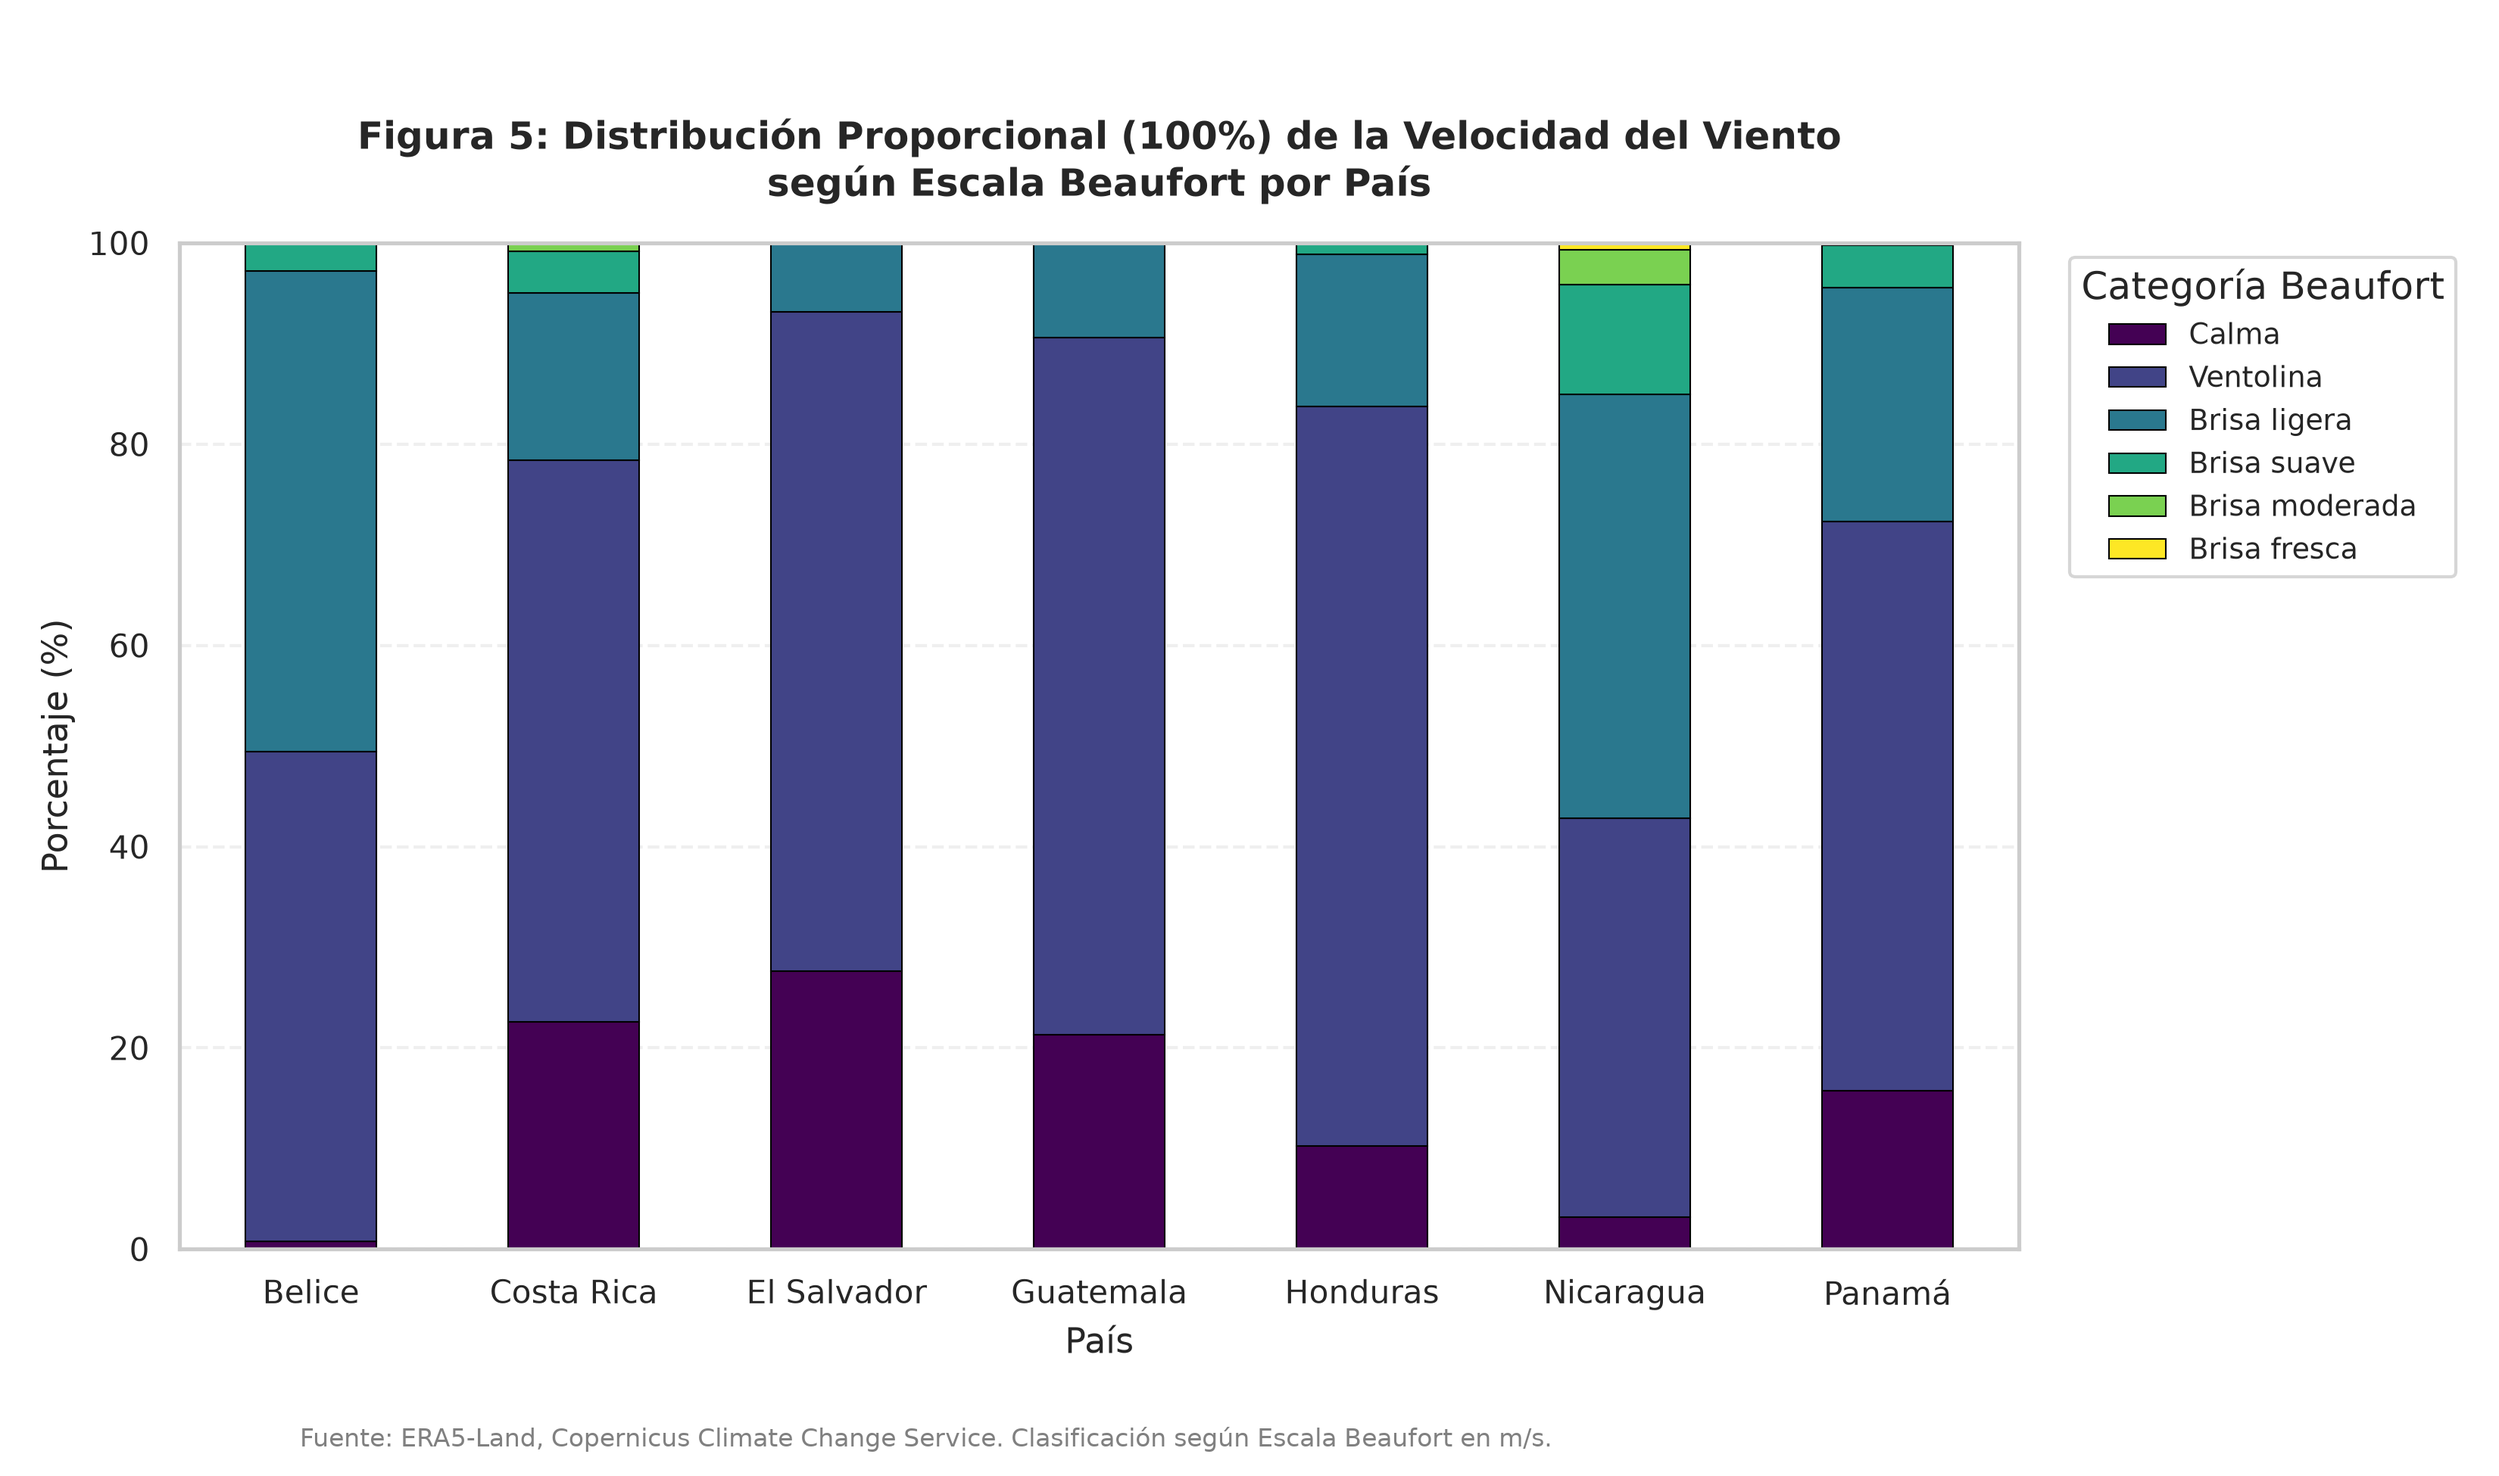
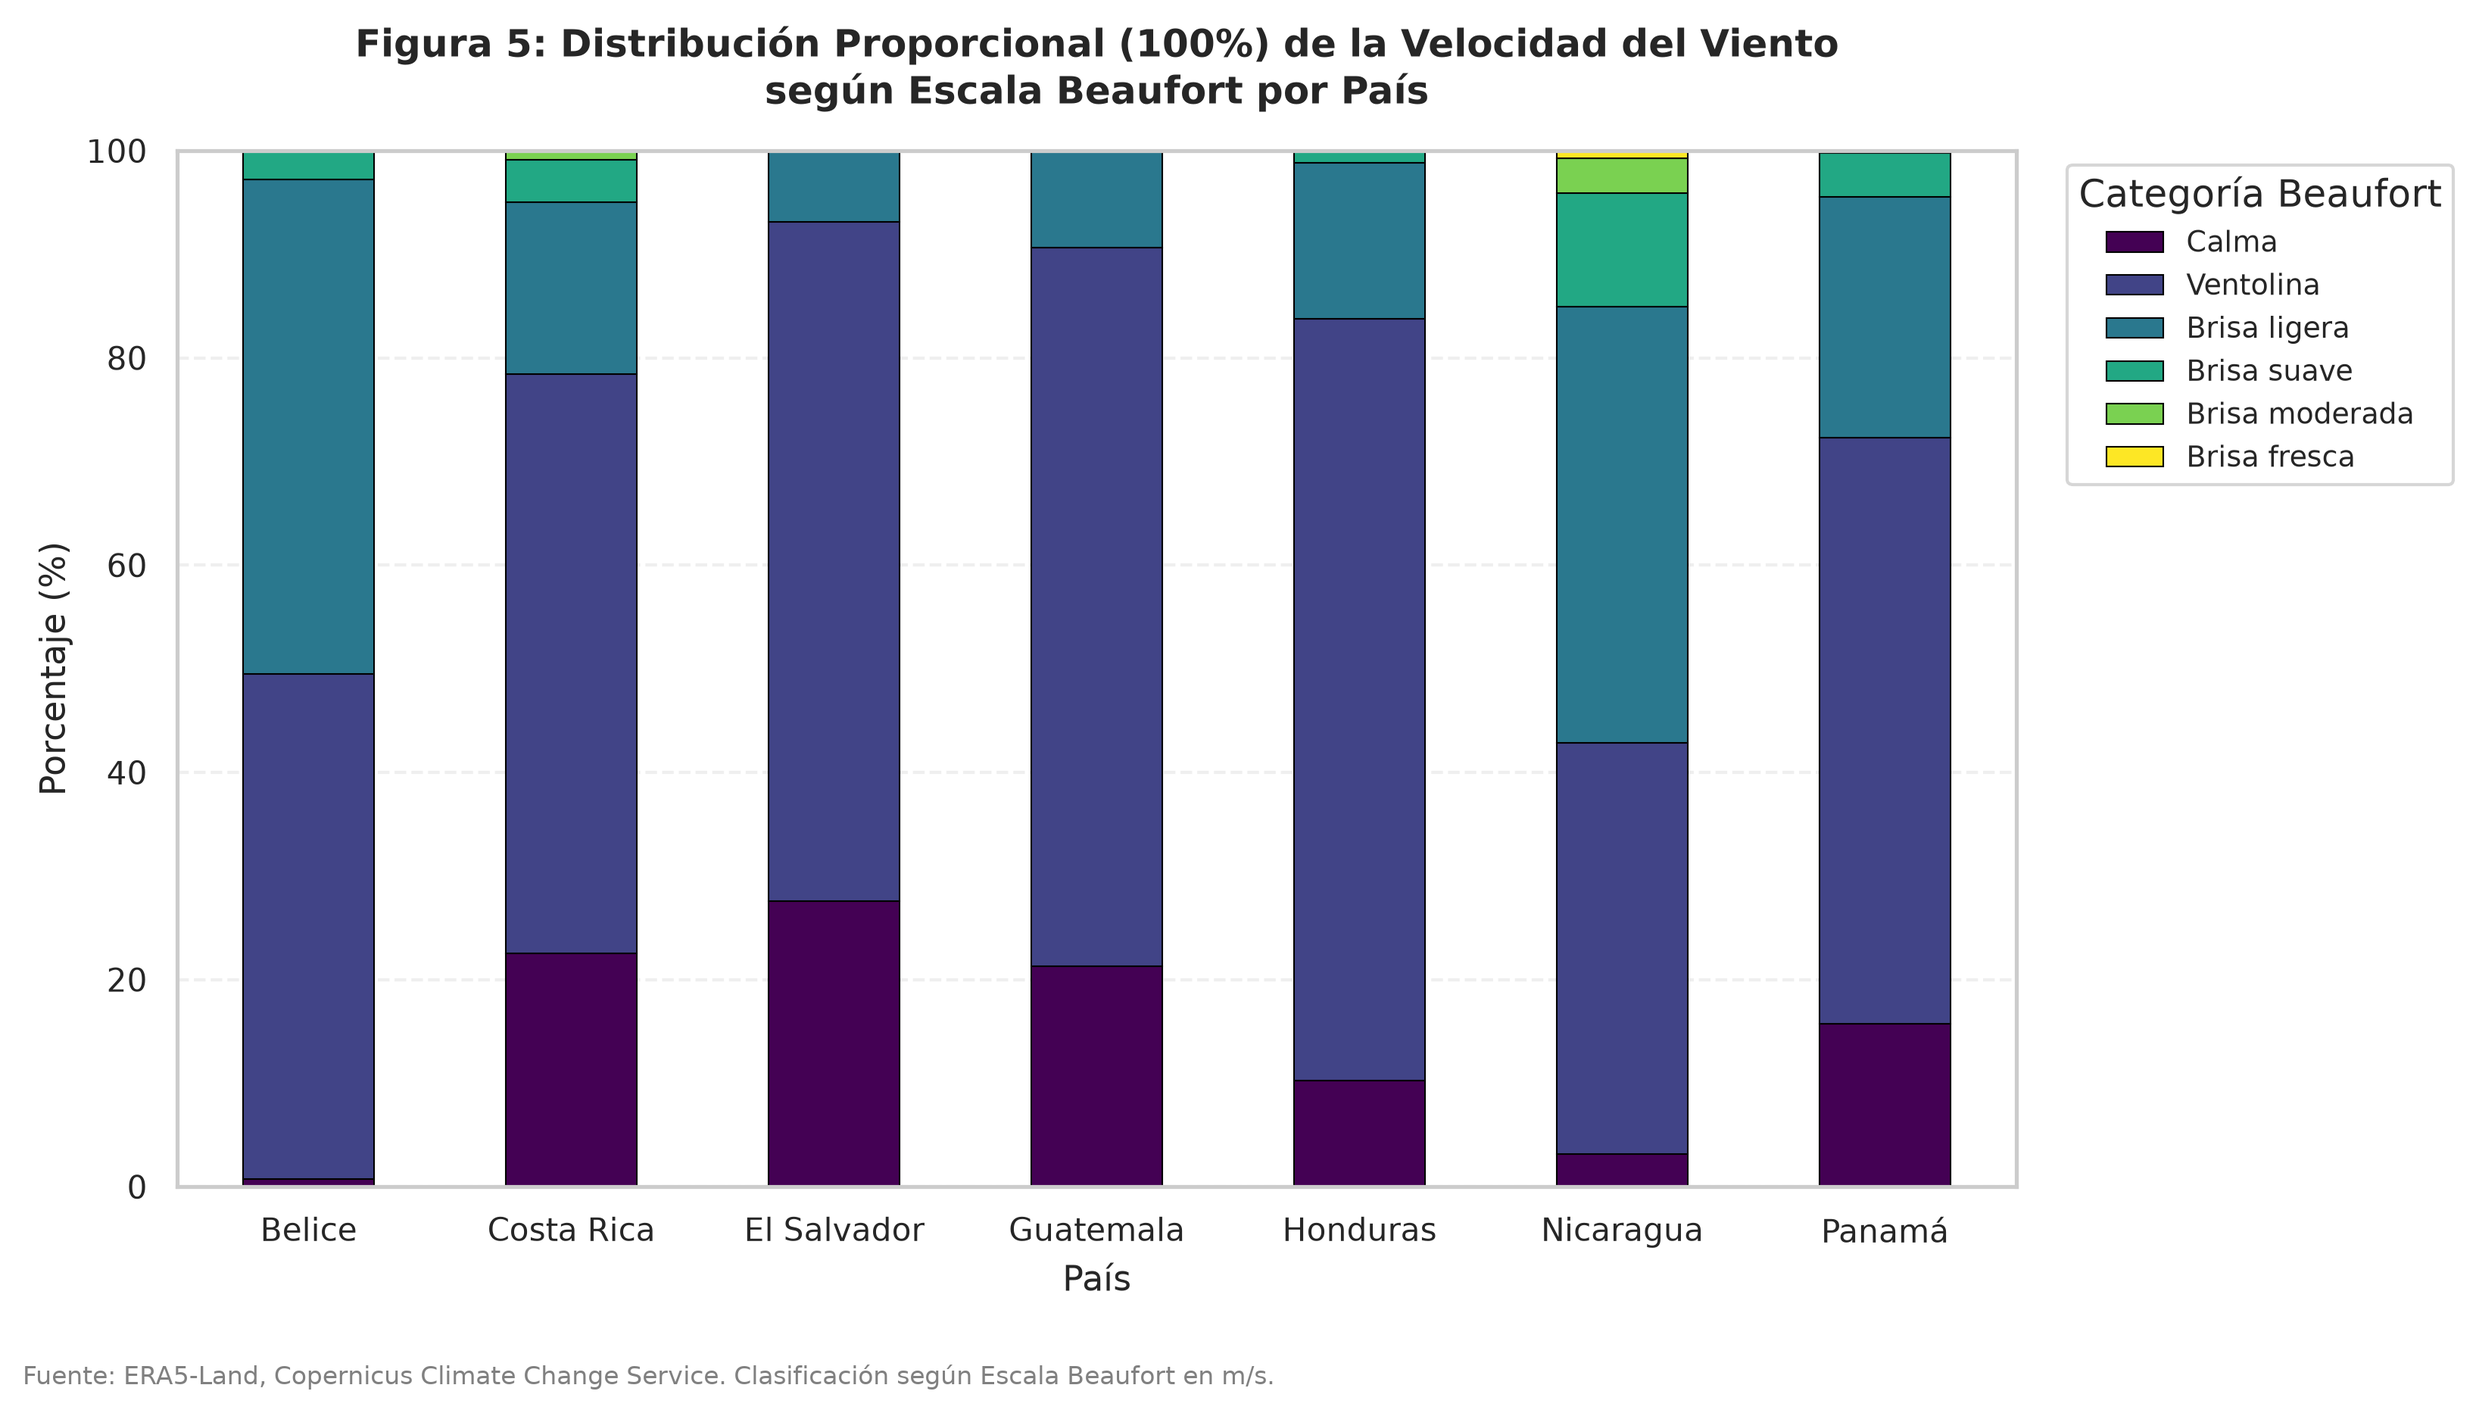
refactor: update climate script to plot scatter charts and refine figure layouts and export settings

diff --git a/scripts_clima/04_clasificacion_y_espacial.py b/scripts_clima/04_clasificacion_y_espacial.py
@@ -14,33 +14,35 @@ def main():
     # 1. Cargar dataset
     df = pd.read_csv(config.CLIMA_CSV_PATH)
     
-    # Diagrama de Dispersión Geográfico
+    # Diagrama de Dispersión Climatológico
     # Promediar 2020-2025 por punto geográfico (lat, lon, pais)
     df_coords = df.groupby(["pais", "latitude", "longitude"])[["temperatura_c", "precipitacion_mensual_mm"]].mean().reset_index()
     
-    fig, ax = plt.subplots(figsize=(10, 8))
+    fig, ax = plt.subplots(figsize=(10, 6))
     
-    for pais, color in config.PAIS_COLORS.items():
-        sub = df_coords[df_coords["pais"] == pais]
-        ax.scatter(
-            sub["longitude"],
-            sub["latitude"],
-            c=color,
-            label=pais,
-            alpha=0.6,
-            edgecolors="none",
-            s=25
-        )
-    ax.set_title("Figura 4: Distribución Geográfica de Puntos Observacionales\nde ERA5-Land por País", pad=15)
-    ax.set_xlabel("Longitud (°)")
-    ax.set_ylabel("Latitud (°)")
-    ax.legend(title="País", loc="lower left")
+    sns.scatterplot(
+        data=df_coords,
+        x="temperatura_c",
+        y="precipitacion_mensual_mm",
+        hue="pais",
+        palette=config.PAIS_COLORS,
+        alpha=0.5,
+        edgecolor="none",
+        s=30,
+        ax=ax
+    )
     
-    fig.text(0.12, 0.02, "Fuente: ERA5-Land, Copernicus Climate Change Service. Promedios 2020–2025 por coordenada.", fontsize=8, color="gray")
+    ax.set_title("Figura 4: Diagrama de Dispersión – Precipitación Promedio vs. Temperatura Promedio\n(Promedios 2020–2025 por Coordenada Geográfica)", pad=15)
+    ax.set_xlabel("Temperatura Promedio (°C)")
+    ax.set_ylabel("Precipitación Promedio (mm)")
+    ax.legend(title="País", bbox_to_anchor=(1.02, 1), loc="upper left")
+    ax.grid(True, linestyle="--", alpha=0.5)
     
-    plt.tight_layout(rect=[0, 0.05, 1, 0.95])
+    fig.text(0.01, 0.01, "Fuente: ERA5-Land, Copernicus Climate Change Service. Promedios 2020–2025 por coordenada.", fontsize=8, color="gray")
+    
+    plt.tight_layout(rect=[0, 0.04, 1, 0.96])
     ruta_fig4 = config.FIGURES_DIR / "fig4_dispersion_geografica.png"
-    plt.savefig(ruta_fig4, dpi=300)
+    plt.savefig(ruta_fig4, dpi=300, bbox_inches="tight")
     plt.close()
     print(f"[Actividad 8 & Fig 4] Guardada en: {ruta_fig4}")
     
@@ -108,11 +110,11 @@ def main():
     ax.legend(title="Categoría Beaufort", bbox_to_anchor=(1.02, 1), loc="upper left")
     plt.xticks(rotation=0)
     
-    fig.text(0.12, 0.02, "Fuente: ERA5-Land, Copernicus Climate Change Service. Clasificación según Escala Beaufort en m/s.", fontsize=8, color="gray")
+    fig.text(0.01, 0.01, "Fuente: ERA5-Land, Copernicus Climate Change Service. Clasificación según Escala Beaufort en m/s.", fontsize=8, color="gray")
     
-    plt.tight_layout(rect=[0, 0.05, 1, 0.95])
+    plt.tight_layout(rect=[0, 0.04, 1, 0.96])
     ruta_fig5 = config.FIGURES_DIR / "fig5_beaufort_apiladas.png"
-    plt.savefig(ruta_fig5, dpi=300)
+    plt.savefig(ruta_fig5, dpi=300, bbox_inches="tight")
     plt.close()
     print(f"[Figura Obligatoria 5] Guardada en: {ruta_fig5}")
     
@@ -136,11 +138,11 @@ def main():
     ax.set_xlabel("Longitud (°)")
     ax.set_ylabel("Latitud (°)")
     
-    fig.text(0.12, 0.02, "Fuente: ERA5-Land, Copernicus Climate Change Service. Promedio multianual 2020–2025 por coordenada.", fontsize=8, color="gray")
+    fig.text(0.01, 0.01, "Fuente: ERA5-Land, Copernicus Climate Change Service. Promedio multianual 2020–2025 por coordenada.", fontsize=8, color="gray")
     
-    plt.tight_layout(rect=[0, 0.05, 1, 0.95])
+    plt.tight_layout(rect=[0, 0.04, 1, 0.96])
     ruta_fig6 = config.FIGURES_DIR / "fig6_mapa_climatico.png"
-    plt.savefig(ruta_fig6, dpi=300)
+    plt.savefig(ruta_fig6, dpi=300, bbox_inches="tight")
     plt.close()
     print(f"[Actividad 12 & Fig 6] Mapa guardado en: {ruta_fig6}")
 
